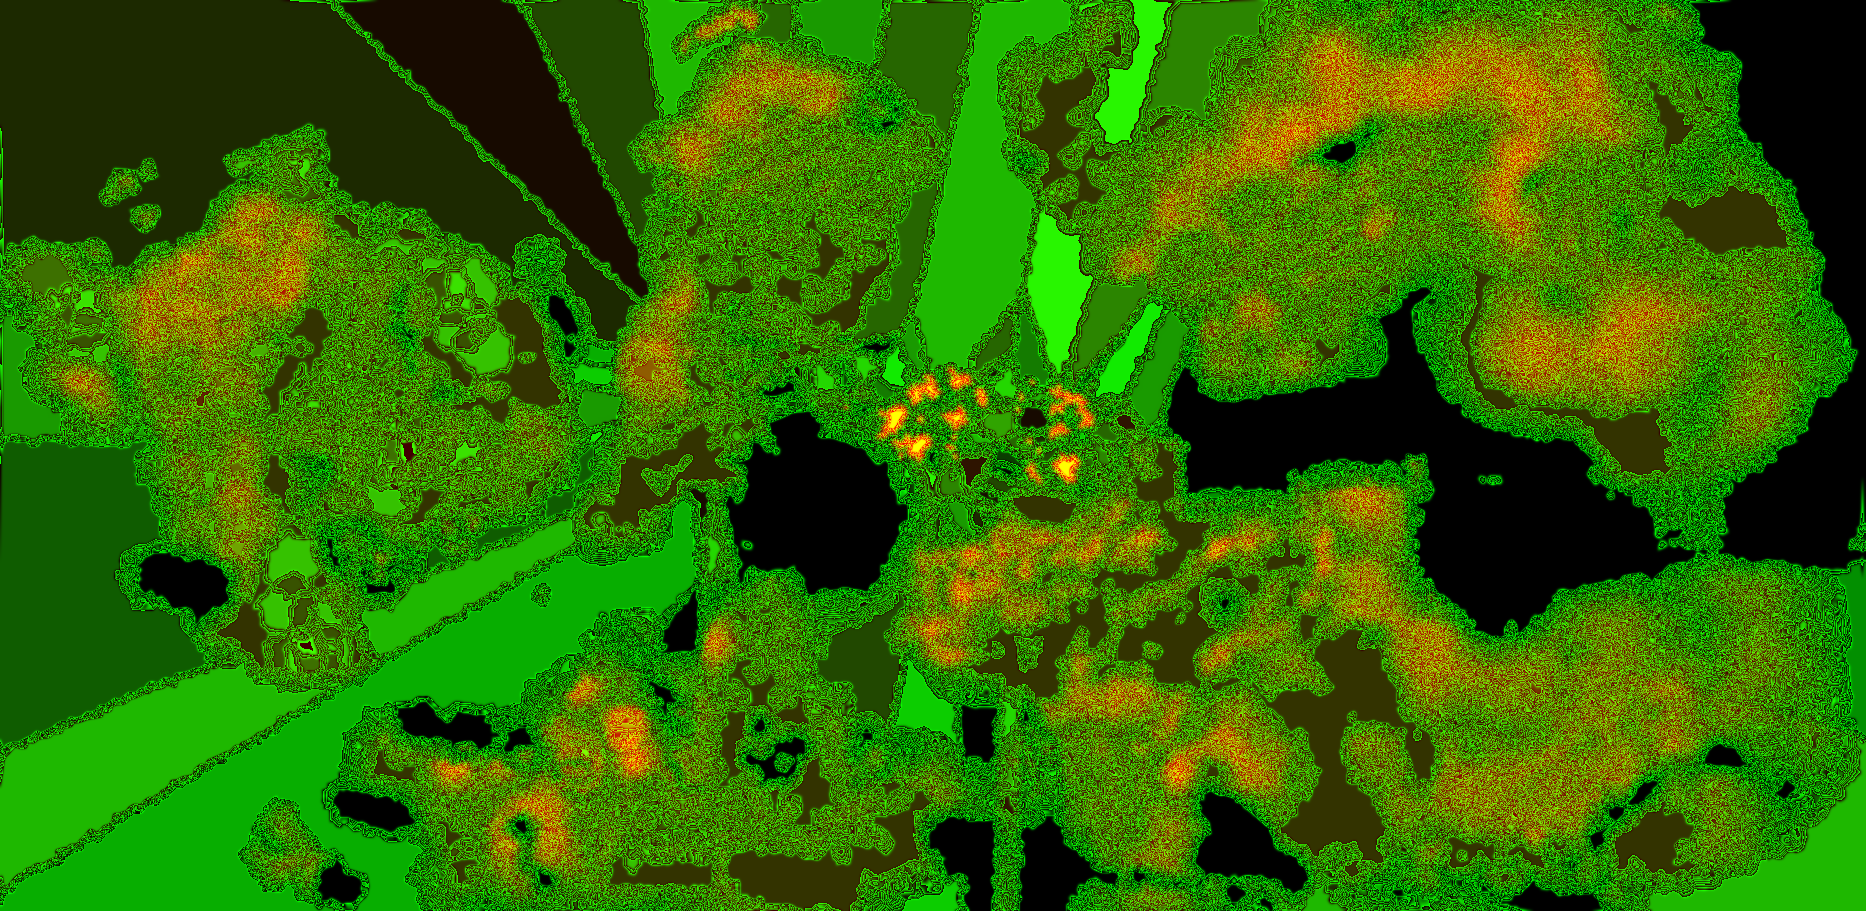
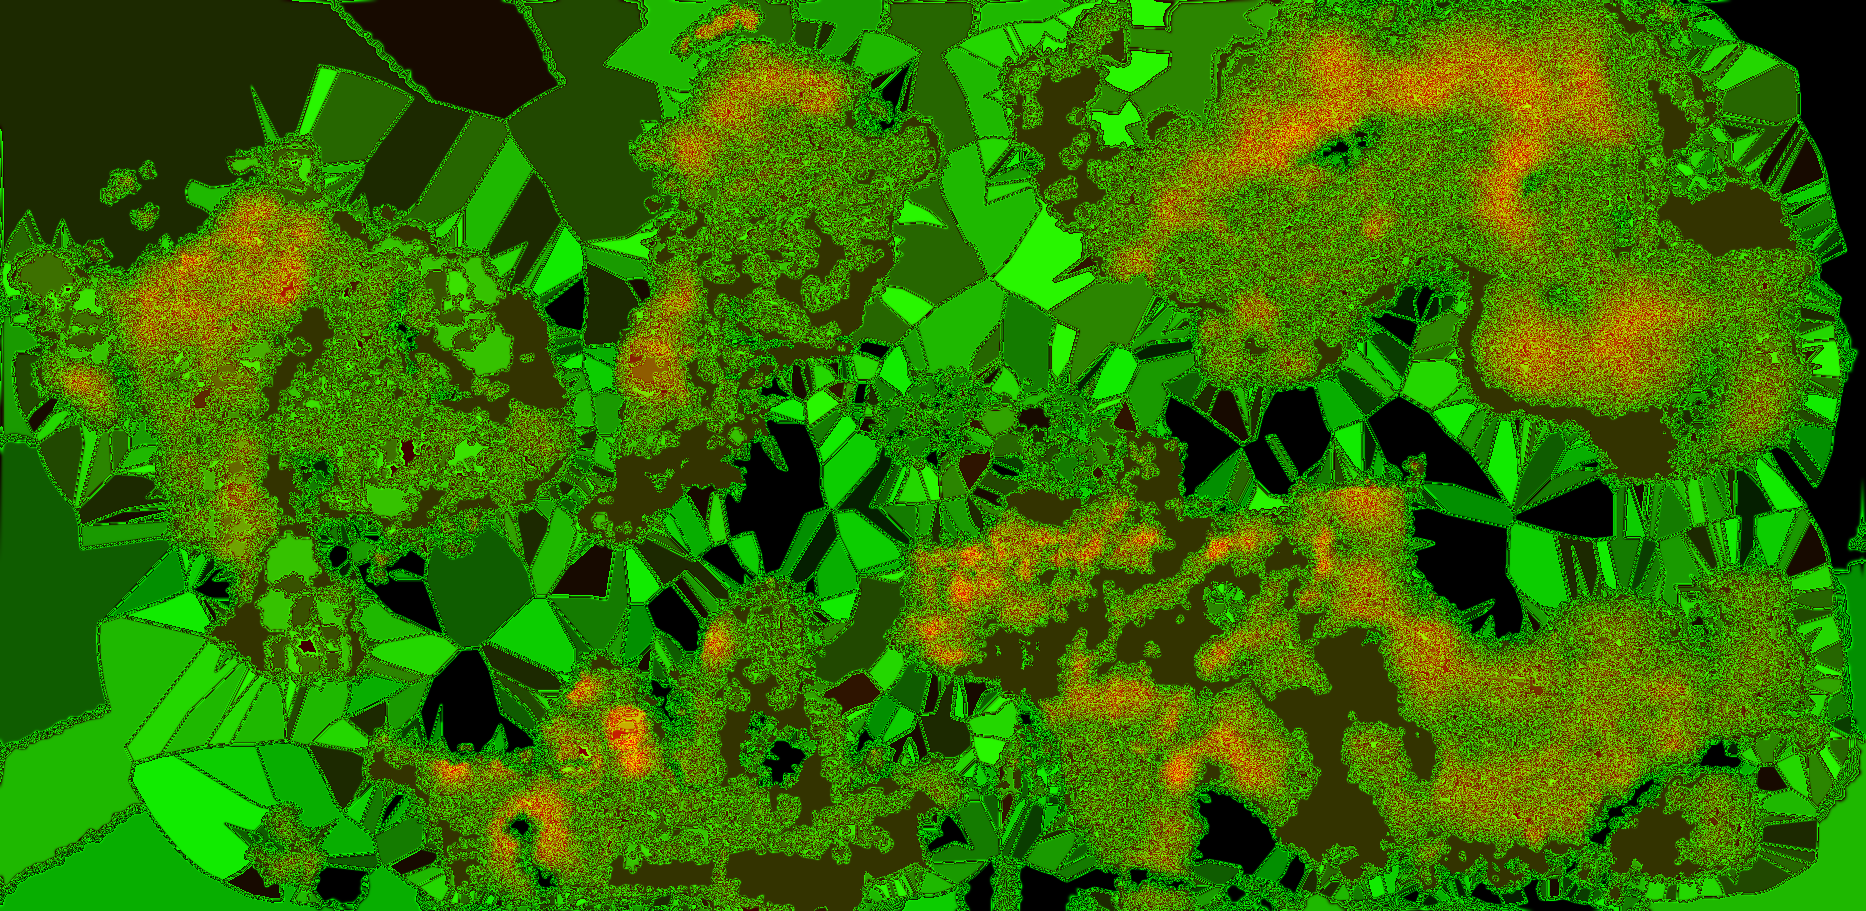
Add files via upload

diff --git a/world3d.html b/world3d.html
@@ -26,6 +26,7 @@ canvas:active{cursor:grabbing}
 <div class="k">Drag to look · W A S D to fly · Q / E down / up · Shift to go faster · mouse wheel changes speed · click the small map to jump</div>
 <label>Mountain height ×<span id="exv">25</span><input id="ex" type="range" min="1" max="120" value="25"></label>
 <label><input id="lbt" type="checkbox" checked> City names</label>
+<label><input id="bio" type="checkbox"> Biome colours (instead of map colours)</label>
 <div class="k" style="margin-top:6px"><a href="map.html">← 2D map</a> · <a href="index.html">Chess</a></div></div>
 <div id="info"><div id="place" style="font-weight:600">—</div><div class="k" id="alt"></div><div class="k" id="pos"></div></div>
 <div id="mini"><canvas id="mc"></canvas><div id="mdot"></div></div>
@@ -36,18 +37,20 @@ canvas:active{cursor:grabbing}
   var msg = document.getElementById('msg');
   if (!gl) { msg.textContent = 'This browser cannot do WebGL, so the 3D view will not run here.'; return; }
   function loadImg(u) { return new Promise(function (ok, no) { var i = new Image(); i.onload = function () { ok(i); }; i.onerror = function () { no(new Error(u)); }; i.src = u; }); }
-  Promise.all([loadImg('world3d-height.png'), loadImg('world3d-color.png'), fetch('world3d-places.json').then(function (r) { return r.json(); })]).then(function (a) { start(a[0], a[1], a[2]); })
+  Promise.all([loadImg('world3d-height.png'), loadImg('world3d-color.png'), fetch('world3d-places.json').then(function (r) { return r.json(); }), loadImg('world3d-mask.png')]).then(function (a) { start(a[0], a[1], a[2], a[3]); })
     .catch(function (e) { msg.textContent = 'Could not load ' + e.message + '. Make sure world3d-height.png, world3d-color.png and world3d-places.json are in the same folder as this page.'; });
 
-  function start(himg, cimg, meta) {
+  function start(himg, cimg, meta, mimg) {
     var W = meta.w, H = meta.h, MI = meta.mi, EXP = meta.exp;
     document.getElementById('ttl').textContent = meta.name + ' in 3D';
     // ---- decode heights: y in map pixels (1 px = MI miles), unexaggerated ----
     var tc = document.createElement('canvas'); tc.width = W; tc.height = H; var tx = tc.getContext('2d'); tx.drawImage(himg, 0, 0);
     var px = tx.getImageData(0, 0, W, H).data, Y = new Float32Array(W * H), i, n = W * H;
+    var MW = mimg.width, MH = mimg.height, SC = MW / W, mc2 = document.createElement('canvas'); mc2.width = MW; mc2.height = MH;
+    var mxx = mc2.getContext('2d'); mxx.drawImage(mimg, 0, 0); var MD = mxx.getImageData(0, 0, MW, MH).data;
     for (i = 0; i < n; i++) {
-      var hv = ((px[i * 4] << 8) | px[i * 4 + 1]) / 65535 * 100, y;
-      if (hv >= 20) y = Math.pow(Math.max(hv - 18, 0), EXP) / 5280 / MI; else y = -(20 - hv) * 0.03;
+      var hv = ((px[i * 4] << 8) | px[i * 4 + 1]) / 65535 * 100, y, mi = (((i / W | 0) * SC | 0) * MW + (i % W) * SC) * 4, isLand = MD[mi] > 127;
+      if (isLand) y = Math.max(Math.pow(Math.max(hv - 18, 0), EXP) / 5280 / MI, 0.0005); else y = Math.min(-(20 - Math.min(hv, 19.9)) * 0.03, -0.002);
       Y[i] = y;
     }
     // ---- mesh ----
@@ -70,23 +73,29 @@ canvas:active{cursor:grabbing}
     var VS = 'attribute vec2 axz;attribute vec3 ad;uniform mat4 uVP;uniform float uEx;uniform vec3 uCam;varying vec3 vN;varying vec2 vUV;varying float vY;varying float vD;varying vec2 vXZ;' +
       'void main(){float y=ad.x;float yy=y>=0.0?y*uEx:y;vec3 p=vec3(axz.x,yy,axz.y);vY=y;vXZ=axz;vUV=vec2((axz.x+0.5)/' + W + '.0,(axz.y+0.5)/' + H + '.0);' +
       'vN=normalize(vec3(-ad.y*uEx,1.0,-ad.z*uEx));vD=length(p-uCam);gl_Position=uVP*vec4(p,1.0);}';
-    var FS = 'precision mediump float;varying vec3 vN;varying vec2 vUV;varying float vY;varying float vD;varying vec2 vXZ;uniform sampler2D uC;uniform float uT;uniform float uFog;uniform vec3 uSky;' +
-      'void main(){vec3 L=normalize(vec3(-0.45,0.62,-0.38));vec3 col;' +
-      'if(vY<0.0){float dp=clamp(-vY/0.6,0.0,1.0);col=mix(vec3(0.20,0.46,0.60),vec3(0.03,0.11,0.26),sqrt(dp));' +
-      'vec3 n=normalize(vec3(sin(vXZ.x*60.0+uT)*0.03+sin(vXZ.y*43.0-uT*1.3)*0.02,1.0,cos(vXZ.y*57.0+uT*0.8)*0.03));float sp=pow(max(dot(reflect(-L,n),normalize(vec3(0.0,0.7,0.7))),0.0),24.0);col+=vec3(sp*0.25);' +
-      'col=mix(col,vec3(0.78,0.9,0.95),smoothstep(-0.02,0.0,vY)*0.55);}' +
-      'else{vec3 b=texture2D(uC,vUV).rgb;float df=max(dot(normalize(vN),L),0.0);col=b*(0.38+0.85*df);}' +
+    var FS = 'precision mediump float;varying vec3 vN;varying vec2 vUV;varying float vY;varying float vD;varying vec2 vXZ;uniform sampler2D uC;uniform sampler2D uM;uniform float uBio;uniform float uT;uniform float uFog;uniform vec3 uSky;' +
+      'vec3 ramp(float h){vec3 a=vec3(0.071,0.518,0.188),b=vec3(0.278,0.572,0.220),c=vec3(0.400,0.525,0.275),d=vec3(0.525,0.643,0.365),e=vec3(0.784,0.753,0.573),f=vec3(0.831,0.788,0.627);' +
+      'if(h<35.0)return mix(a,b,clamp((h-20.0)/15.0,0.0,1.0));if(h<45.0)return mix(b,c,(h-35.0)/10.0);if(h<55.0)return mix(c,d,(h-45.0)/10.0);if(h<65.0)return mix(d,e,(h-55.0)/10.0);return mix(e,f,clamp((h-65.0)/25.0,0.0,1.0));}' +
+      'void main(){vec3 L=normalize(vec3(-0.45,0.62,-0.38));vec3 col;vec4 m=texture2D(uM,vUV);float hh=m.g*100.0;' +
+      'if(m.r<0.5){float dp=clamp((20.0-hh)/20.0,0.0,1.0);col=mix(vec3(0.275,0.404,0.510),vec3(0.165,0.286,0.408),sqrt(dp));' +
+      'vec3 n=normalize(vec3(sin(vXZ.x*60.0+uT)*0.03+sin(vXZ.y*43.0-uT*1.3)*0.02,1.0,cos(vXZ.y*57.0+uT*0.8)*0.03));float sp=pow(max(dot(reflect(-L,n),normalize(vec3(0.0,0.7,0.7))),0.0),24.0);col+=vec3(sp*0.18);}' +
+      'else{vec3 b=mix(ramp(hh),texture2D(uC,vUV).rgb,uBio);float df=max(dot(normalize(vN),L),0.0);col=b*(0.5+0.7*df);}' +
+      'float ln=(1.0-smoothstep(0.0,0.2,abs(m.r-0.5)))*(1.0-smoothstep(25.0,140.0,vD));col=mix(col,vec3(0.02),ln*0.85);' +
       'float f=1.0-exp(-vD*uFog);gl_FragColor=vec4(mix(col,uSky,clamp(f,0.0,1.0)),1.0);}';
     function sh(t, s) { var x = gl.createShader(t); gl.shaderSource(x, s); gl.compileShader(x); if (!gl.getShaderParameter(x, gl.COMPILE_STATUS)) throw new Error(gl.getShaderInfoLog(x)); return x; }
     var pr = gl.createProgram(); gl.attachShader(pr, sh(gl.VERTEX_SHADER, VS)); gl.attachShader(pr, sh(gl.FRAGMENT_SHADER, FS)); gl.linkProgram(pr);
     if (!gl.getProgramParameter(pr, gl.LINK_STATUS)) throw new Error(gl.getProgramInfoLog(pr));
     gl.useProgram(pr);
     var aXZ = gl.getAttribLocation(pr, 'axz'), aD = gl.getAttribLocation(pr, 'ad'), U = {};
-    ['uVP', 'uEx', 'uCam', 'uC', 'uT', 'uFog', 'uSky'].forEach(function (nm) { U[nm] = gl.getUniformLocation(pr, nm); });
+    ['uVP', 'uEx', 'uCam', 'uC', 'uM', 'uBio', 'uT', 'uFog', 'uSky'].forEach(function (nm) { U[nm] = gl.getUniformLocation(pr, nm); });
     var tex = gl.createTexture(); gl.bindTexture(gl.TEXTURE_2D, tex);
     gl.texImage2D(gl.TEXTURE_2D, 0, gl.RGB, gl.RGB, gl.UNSIGNED_BYTE, cimg);
     gl.texParameteri(gl.TEXTURE_2D, gl.TEXTURE_MIN_FILTER, gl.LINEAR); gl.texParameteri(gl.TEXTURE_2D, gl.TEXTURE_MAG_FILTER, gl.LINEAR);
     gl.texParameteri(gl.TEXTURE_2D, gl.TEXTURE_WRAP_S, gl.CLAMP_TO_EDGE); gl.texParameteri(gl.TEXTURE_2D, gl.TEXTURE_WRAP_T, gl.CLAMP_TO_EDGE);
+    var tex2 = gl.createTexture(); gl.activeTexture(gl.TEXTURE1); gl.bindTexture(gl.TEXTURE_2D, tex2);
+    gl.texImage2D(gl.TEXTURE_2D, 0, gl.RGB, gl.RGB, gl.UNSIGNED_BYTE, mimg);
+    gl.texParameteri(gl.TEXTURE_2D, gl.TEXTURE_MIN_FILTER, gl.LINEAR); gl.texParameteri(gl.TEXTURE_2D, gl.TEXTURE_MAG_FILTER, gl.LINEAR);
+    gl.texParameteri(gl.TEXTURE_2D, gl.TEXTURE_WRAP_S, gl.CLAMP_TO_EDGE); gl.texParameteri(gl.TEXTURE_2D, gl.TEXTURE_WRAP_T, gl.CLAMP_TO_EDGE); gl.activeTexture(gl.TEXTURE0);
     gl.enable(gl.DEPTH_TEST); gl.enable(gl.CULL_FACE); gl.cullFace(gl.BACK);
     var SKY = [0.62, 0.74, 0.86]; gl.clearColor(SKY[0], SKY[1], SKY[2], 1);
     // ---- camera ----
@@ -119,7 +128,7 @@ canvas:active{cursor:grabbing}
     window.addEventListener('keyup', function (e) { keys[e.key.toLowerCase()] = false; });
     var exEl = document.getElementById('ex'), exv = document.getElementById('exv');
     exEl.addEventListener('input', function () { EX = +exEl.value; exv.textContent = EX; });
-    var lbt = document.getElementById('lbt');
+    var lbt = document.getElementById('lbt'), bioEl = document.getElementById('bio');
     // ---- minimap ----
     var mc = document.getElementById('mc'); mc.width = 300; mc.height = Math.round(300 * H / W);
     var mx = mc.getContext('2d'); mx.drawImage(cimg, 0, 0, mc.width, mc.height);
@@ -146,6 +155,50 @@ canvas:active{cursor:grabbing}
       for (; n < LB; n++) pool[n].style.display = 'none';
     }
     function nearest() { var best = null, bd = 1e9; for (var j = 0; j < P.length; j++) { var dx = P[j].x - cam.x, dz = P[j].y - cam.z, q = dx * dx + dz * dz; if (q < bd) { bd = q; best = P[j]; } } return bd < 900 ? best : null; }
+    // ---- floating islands (the Vortex of Ragnarok): 10,000-15,000 ft up ----
+    var fl = (function () {
+      var FW = W, FH = H, m = new Float32Array(FW * FH), q = 0;
+      for (var z = 0; z < FH; z++) for (var x = 0; x < FW; x++) { var v = MD[((z * SC | 0) * MW + (x * SC | 0)) * 4 + 2] > 127 ? 1 : 0; m[z * FW + x] = v; q += v; }
+      if (!q) return null;
+      function blur(a, r) { var o = new Float32Array(a.length), t2 = new Float32Array(a.length), x, z, k, s, c;
+        for (z = 0; z < FH; z++) for (x = 0; x < FW; x++) { s = 0; c = 0; for (k = -r; k <= r; k++) { var xx = x + k; if (xx >= 0 && xx < FW) { s += a[z * FW + xx]; c++; } } t2[z * FW + x] = s / (2 * r + 1); }
+        for (z = 0; z < FH; z++) for (x = 0; x < FW; x++) { s = 0; for (k = -r; k <= r; k++) { var zz = z + k; if (zz >= 0 && zz < FH) s += t2[zz * FW + x]; } o[z * FW + x] = s / (2 * r + 1); } return o; }
+      var dm = blur(blur(m, 2), 2);
+      var ft = function (f) { return f / 5280 / MI; };
+      function hash(a, b) { var s = Math.sin(a * 127.1 + b * 311.7) * 43758.5453; return s - Math.floor(s); }
+      var verts = [], cols = [], tris = [], id = new Int32Array(FW * FH).fill(-1), cc = document.createElement('canvas'); cc.width = W; cc.height = H;
+      var cx = cc.getContext('2d'); cx.drawImage(cimg, 0, 0); var CD = cx.getImageData(0, 0, W, H).data;
+      function tp(x, z) { var d = Math.min(1, dm[z * FW + x] * 1.7); var alt = 10000 + 5000 * (0.5 + 0.5 * Math.sin(x * 0.045 + z * 0.031) * Math.cos(z * 0.052 - x * 0.02));
+        return [ft(alt) + d * ft(900) + (hash(x, z) - 0.5) * ft(260) * d, ft(alt) - Math.pow(d, 0.6) * ft(3200) - hash(z, x) * ft(300) * d, d]; }
+      for (var z2 = 0; z2 < FH; z2++) for (var x2 = 0; x2 < FW; x2++) if (dm[z2 * FW + x2] > 0.02) {
+        var t3 = tp(x2, z2), ci = (z2 * W + x2) * 4; id[z2 * FW + x2] = verts.length / 12;
+        verts.push(x2, t3[0], z2, 0, 0, 0, x2, t3[1], z2, 0, 0, 0); cols.push(0.78, 0.74, 0.58, 0.42, 0.38, 0.33);
+      }
+      var nv = verts.length / 12;  // each grid point owns two vertices: top = 2k, bottom = 2k+1 ; 'id' counts pairs
+      for (var z3 = 0; z3 < FH - 1; z3++) for (var x3 = 0; x3 < FW - 1; x3++) {
+        var a = id[z3 * FW + x3], b = id[z3 * FW + x3 + 1], c = id[(z3 + 1) * FW + x3], d2 = id[(z3 + 1) * FW + x3 + 1];
+        if (a < 0 || b < 0 || c < 0 || d2 < 0) continue;
+        tris.push(a * 2, c * 2, b * 2, b * 2, c * 2, d2 * 2, a * 2 + 1, b * 2 + 1, c * 2 + 1, b * 2 + 1, d2 * 2 + 1, c * 2 + 1);
+      }
+      var P2 = new Float32Array(verts.length / 2), N2 = new Float32Array(verts.length / 2), C2 = new Float32Array(cols), I2 = new Uint32Array(tris);
+      for (var q2 = 0, o2 = 0; q2 < verts.length; q2 += 6) { P2[o2++] = verts[q2]; P2[o2++] = verts[q2 + 1]; P2[o2++] = verts[q2 + 2]; }
+      for (var t4 = 0; t4 < I2.length; t4 += 3) {
+        var i0 = I2[t4] * 3, i1 = I2[t4 + 1] * 3, i2 = I2[t4 + 2] * 3, ux = P2[i1] - P2[i0], uy = P2[i1 + 1] - P2[i0 + 1], uz = P2[i1 + 2] - P2[i0 + 2], vx = P2[i2] - P2[i0], vy = P2[i2 + 1] - P2[i0 + 1], vz = P2[i2 + 2] - P2[i0 + 2];
+        var nx = uy * vz - uz * vy, ny = uz * vx - ux * vz, nz = ux * vy - uy * vx;
+        [i0, i1, i2].forEach(function (ii) { N2[ii] += nx; N2[ii + 1] += ny; N2[ii + 2] += nz; });
+      }
+      return { P: P2, N: N2, C: C2, I: I2 };
+    })();
+    var FP = null;
+    if (fl) {
+      var FV = 'attribute vec3 p;attribute vec3 n;attribute vec3 c;uniform mat4 uVP;uniform float uEx;uniform vec3 uCam;varying vec3 vN;varying vec3 vC;varying float vD;void main(){vec3 q=vec3(p.x,p.y*uEx,p.z);vN=vec3(n.x,n.y/uEx,n.z);vC=c;vD=length(q-uCam);gl_Position=uVP*vec4(q,1.0);}';
+      var FF = 'precision mediump float;varying vec3 vN;varying vec3 vC;varying float vD;uniform float uFog;uniform vec3 uSky;void main(){vec3 L=normalize(vec3(-0.45,0.62,-0.38));vec3 n=normalize(vN);float df=abs(dot(n,L))*0.5+max(dot(n,L),0.0)*0.5;vec3 col=vC*(0.4+0.8*df);gl_FragColor=vec4(mix(col,uSky,clamp(1.0-exp(-vD*uFog),0.0,1.0)),1.0);}';
+      FP = gl.createProgram(); gl.attachShader(FP, sh(gl.VERTEX_SHADER, FV)); gl.attachShader(FP, sh(gl.FRAGMENT_SHADER, FF)); gl.linkProgram(FP);
+      if (!gl.getProgramParameter(FP, gl.LINK_STATUS)) throw new Error(gl.getProgramInfoLog(FP));
+      FP.u = {}; ['uVP', 'uEx', 'uCam', 'uFog', 'uSky'].forEach(function (nm) { FP.u[nm] = gl.getUniformLocation(FP, nm); });
+      FP.a = [gl.getAttribLocation(FP, 'p'), gl.getAttribLocation(FP, 'n'), gl.getAttribLocation(FP, 'c')];
+      FP.bP = buf(gl.ARRAY_BUFFER, fl.P); FP.bN = buf(gl.ARRAY_BUFFER, fl.N); FP.bC = buf(gl.ARRAY_BUFFER, fl.C); FP.bI = buf(gl.ELEMENT_ARRAY_BUFFER, fl.I);
+    }
     // ---- loop ----
     var last = performance.now(), frame = 0;
     function loop(t) {
@@ -166,11 +219,18 @@ canvas:active{cursor:grabbing}
       var near = Math.max(alt * 0.02, 0.0004), far = Math.min(6000, Math.max(alt * 600, 40));
       var vp = mul(persp(1.0, cv.width / cv.height, near, far), view());
       gl.useProgram(pr);
-      gl.uniformMatrix4fv(U.uVP, false, vp); gl.uniform1f(U.uEx, EX); gl.uniform3f(U.uCam, cam.x, cam.y, cam.z); gl.uniform1i(U.uC, 0);
+      gl.uniformMatrix4fv(U.uVP, false, vp); gl.uniform1f(U.uEx, EX); gl.uniform3f(U.uCam, cam.x, cam.y, cam.z); gl.uniform1i(U.uC, 0); gl.uniform1i(U.uM, 1); gl.uniform1f(U.uBio, bioEl.checked ? 1 : 0); gl.activeTexture(gl.TEXTURE0); gl.bindTexture(gl.TEXTURE_2D, tex); gl.activeTexture(gl.TEXTURE1); gl.bindTexture(gl.TEXTURE_2D, tex2); gl.activeTexture(gl.TEXTURE0);
       gl.uniform1f(U.uT, t / 1000); gl.uniform1f(U.uFog, 1.5 / far * 2.2); gl.uniform3f(U.uSky, SKY[0], SKY[1], SKY[2]);
       gl.bindBuffer(gl.ARRAY_BUFFER, bXZ); gl.enableVertexAttribArray(aXZ); gl.vertexAttribPointer(aXZ, 2, gl.FLOAT, false, 0, 0);
       gl.bindBuffer(gl.ARRAY_BUFFER, bD); gl.enableVertexAttribArray(aD); gl.vertexAttribPointer(aD, 3, gl.FLOAT, false, 0, 0);
       gl.bindBuffer(gl.ELEMENT_ARRAY_BUFFER, bI); gl.drawElements(gl.TRIANGLES, idx.length, gl.UNSIGNED_INT, 0);
+      if (FP) {
+        gl.useProgram(FP); gl.disable(gl.CULL_FACE);
+        gl.uniformMatrix4fv(FP.u.uVP, false, vp); gl.uniform1f(FP.u.uEx, EX); gl.uniform3f(FP.u.uCam, cam.x, cam.y, cam.z); gl.uniform1f(FP.u.uFog, 1.5 / far * 2.2); gl.uniform3f(FP.u.uSky, SKY[0], SKY[1], SKY[2]);
+        [[FP.bP, 0], [FP.bN, 1], [FP.bC, 2]].forEach(function (q) { gl.bindBuffer(gl.ARRAY_BUFFER, q[0]); gl.enableVertexAttribArray(FP.a[q[1]]); gl.vertexAttribPointer(FP.a[q[1]], 3, gl.FLOAT, false, 0, 0); });
+        gl.bindBuffer(gl.ELEMENT_ARRAY_BUFFER, FP.bI); gl.drawElements(gl.TRIANGLES, fl.I.length, gl.UNSIGNED_INT, 0);
+        gl.disableVertexAttribArray(FP.a[0]); gl.disableVertexAttribArray(FP.a[1]); gl.disableVertexAttribArray(FP.a[2]); gl.enable(gl.CULL_FACE);
+      }
       if ((frame++ & 1) === 0) {
         labels(vp, w, hh, alt);
         mdot.style.left = cam.x / W * 100 + '%'; mdot.style.top = cam.z / H * 100 + '%';
